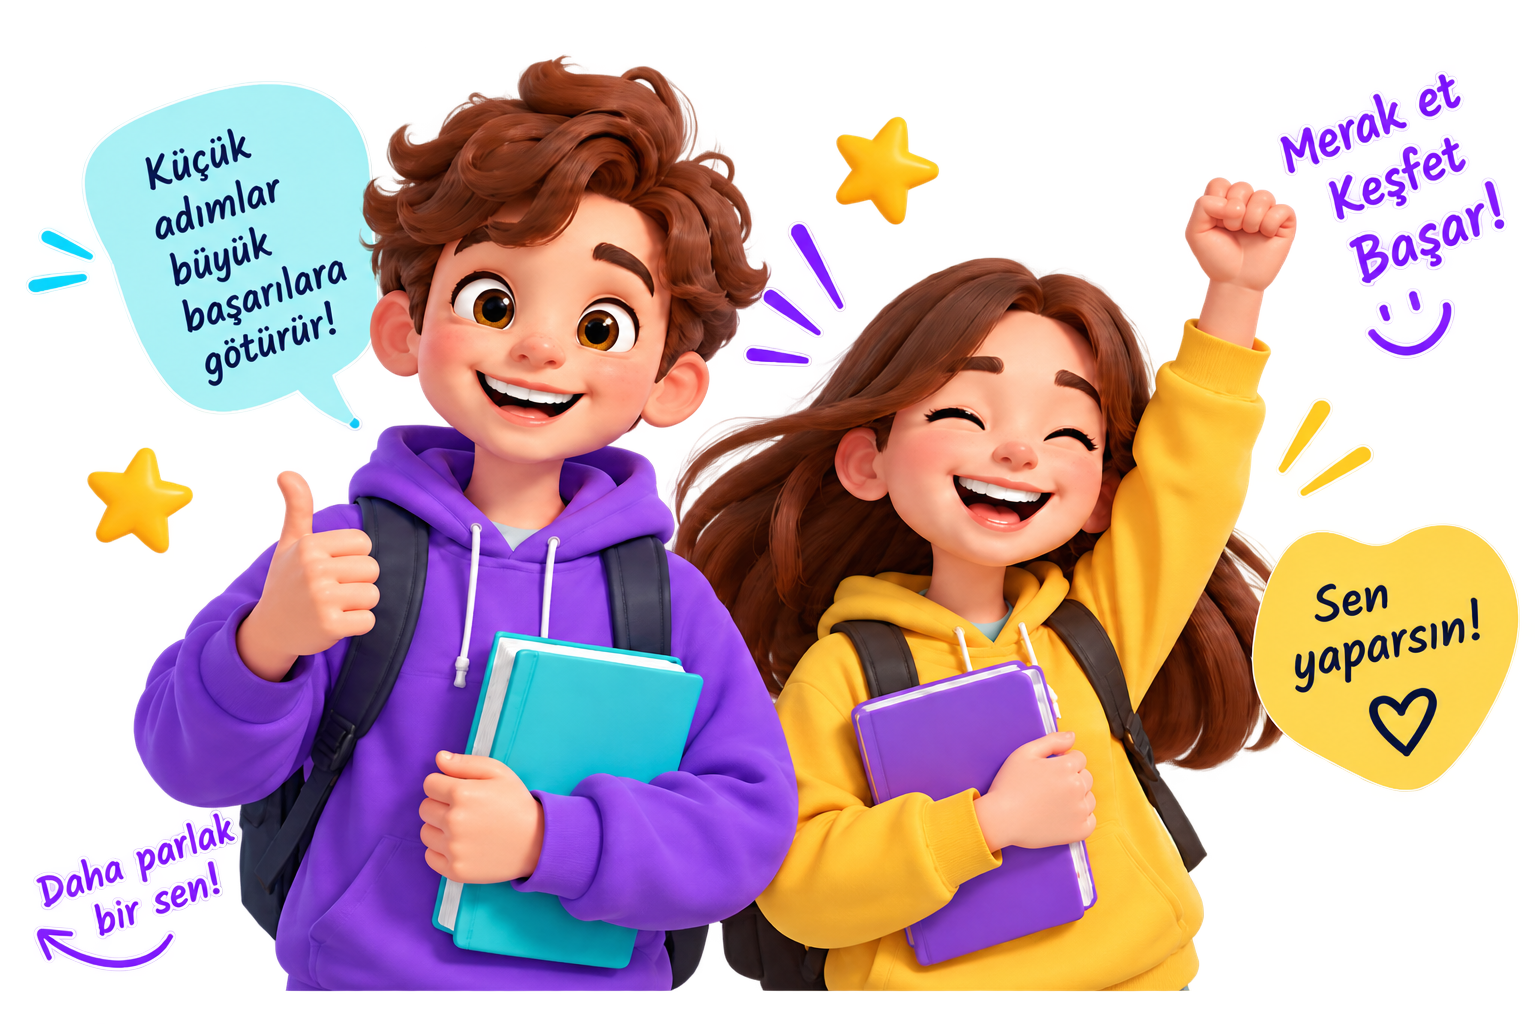
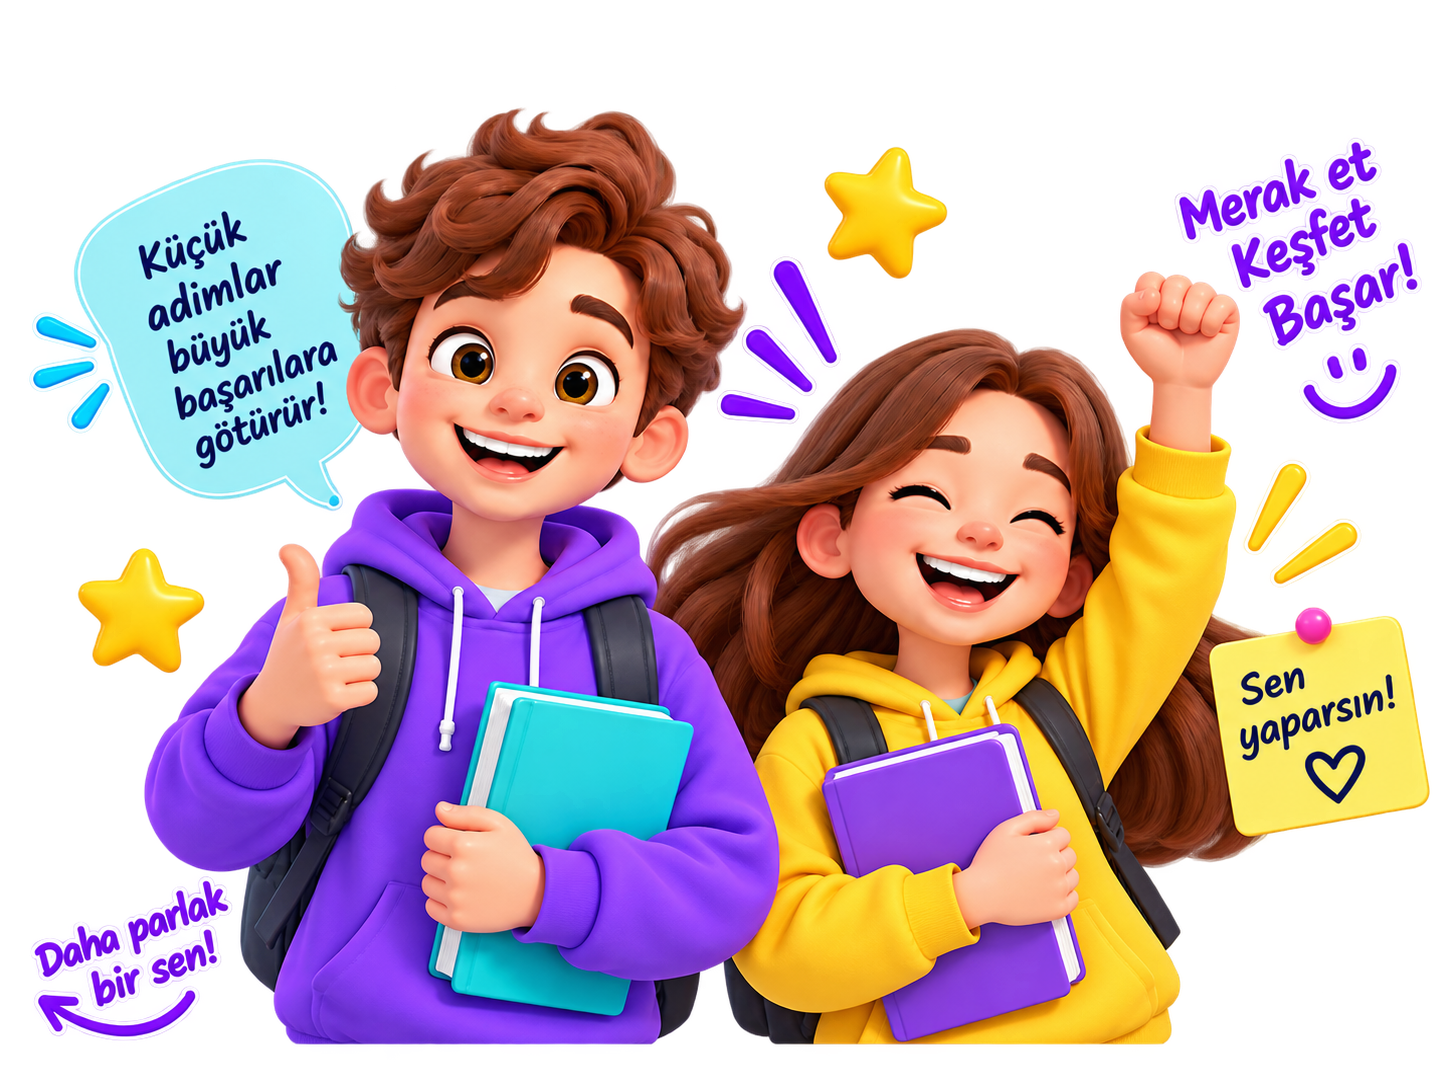
feat: ders detay hero alanını ve görsellerini güncelle

diff --git a/src/features/lessons/detail/components/LessonHero.tsx b/src/features/lessons/detail/components/LessonHero.tsx
@@ -1,0 +1,53 @@
+import { GraduationCap } from "lucide-react";
+
+import { AppButton } from "@/components/ui/AppButton";
+import { AppText } from "@/components/ui/AppText";
+
+import type { Lesson } from "../../types/lesson.types";
+
+type LessonHeroProps = {
+  lesson: Lesson;
+};
+
+export function LessonHero({ lesson }: LessonHeroProps) {
+  return (
+    <section className="relative pt-4 sm:pt-6 lg:pt-8 lg:pb-10 xl:pb-0">
+      <div className="grid items-center gap-10 lg:grid-cols-2 lg:gap-12">
+        <div>
+          <div className="mb-5 inline-flex items-center gap-2 rounded-full bg-secondary/15 px-4 py-2 text-secondary">
+            <GraduationCap size={20} />
+
+            <AppText variant="small" className="font-bold">
+              {lesson.badge}
+            </AppText>
+          </div>
+
+          <AppText variant="h1">
+            {lesson.heroTitle}{" "}
+            <span className="text-primary">{lesson.heroHighlight}</span>
+          </AppText>
+
+          <AppText variant="muted" className="mt-6 max-w-xl">
+            {lesson.description}
+          </AppText>
+
+          <div className="mt-8 flex flex-wrap gap-4">
+            <AppButton size="lg">{lesson.primaryButtonText}</AppButton>
+
+            <AppButton variant="outline" size="lg">
+              {lesson.secondaryButtonText}
+            </AppButton>
+          </div>
+        </div>
+
+        <div className="flex justify-center lg:justify-end">
+          <img
+            src={lesson.image}
+            alt={lesson.imageAlt}
+            className="w-full max-w-2xl object-contain"
+          />
+        </div>
+      </div>
+    </section>
+  );
+}

diff --git a/src/components/ui/AppLink.tsx b/src/components/ui/AppLink.tsx
@@ -16,13 +16,14 @@ type AppLinkProps = {
   children: ReactNode;
   variant?: AppLinkVariant;
   active?: boolean;
+  end?: boolean;
 };
 
 const variantClasses: Record<AppLinkVariant, string> = {
   default:
     "rounded-full text-slate-700 transition-colors hover:text-violet-600",
   brand: "rounded-full text-3xl font-extrabold tracking-tight text-violet-600",
-  nav: "rounded-full relative py-2 text-sm font-medium text-slate-700 transition-colors hover:text-violet-600",
+  nav: "relative rounded-full py-2 text-sm font-medium text-slate-700 transition-colors hover:text-violet-600",
   outlineButton:
     "rounded-full border border-violet-300 px-5 py-2.5 text-sm font-semibold text-violet-600 transition hover:bg-violet-50",
   primaryButton:
@@ -39,11 +40,13 @@ export function AppLink({
   children,
   variant = "default",
   active = false,
+  end = false,
 }: AppLinkProps) {
   if (variant === "nav") {
     return (
       <NavLink
         to={to}
+        end={end}
         className={({ isActive }) =>
           `${variantClasses.nav} ${isActive ? "text-violet-600" : ""}`
         }

diff --git a/src/components/layout/Header.tsx b/src/components/layout/Header.tsx
@@ -4,7 +4,7 @@ import { AppLink } from "@/components/ui/AppLink";
 export function Header() {
   const navItems = [
     { label: "Ana Sayfa", path: "/" },
-    { label: "Dersler", path: "/dersler" },
+    { label: "Dersler", path: "/dersler/bilisim-teknolojileri" },
     { label: "Oyunlar", path: "/oyunlar" },
     { label: "Notlar", path: "/notlar" },
     { label: "Quiz", path: "/quiz" },
@@ -19,7 +19,12 @@ export function Header() {
 
         <nav className="hidden items-center gap-8 md:flex">
           {navItems.map((item) => (
-            <AppLink key={item.path} to={item.path} variant="nav">
+            <AppLink
+              key={item.path}
+              to={item.path}
+              variant="nav"
+              end={item.path === "/"}
+            >
               {item.label}
             </AppLink>
           ))}

diff --git a/src/features/lessons/data/lessons.ts b/src/features/lessons/data/lessons.ts
@@ -1,0 +1,18 @@
+import informationTechnologiesHeroImage from "@/assets/images/lessons/information-technologies/information-technologies-hero.png";
+
+import type { Lesson } from "../types/lesson.types";
+
+export const lessons: Lesson[] = [
+  {
+    slug: "bilisim-teknolojileri",
+    badge: "Bilişim Teknolojileri",
+    heroTitle: "Teknolojiyi Keşfet,",
+    heroHighlight: "Becerilerini Geliştir!",
+    description:
+      "Bilgisayarları, interneti ve dijital dünyayı keşfet; öğrendiklerini etkinlikler ve oyunlarla pekiştir.",
+    primaryButtonText: "Konuları Keşfet",
+    secondaryButtonText: "Oyunlara Göz At",
+    image: informationTechnologiesHeroImage,
+    imageAlt: "Bilişim teknolojileri öğrenme görseli",
+  },
+];

diff --git a/src/app/AppRouter.tsx b/src/app/AppRouter.tsx
@@ -2,6 +2,7 @@ import { BrowserRouter, Navigate, Route, Routes } from "react-router-dom";
 
 import { MainLayout } from "@/components/layout/MainLayout";
 import { HomePage } from "@/features/home/pages/HomePage";
+import { LessonDetailPage } from "@/features/lessons/detail/pages/LessonDetailPage";
 
 export const AppRouter = () => {
   return (
@@ -9,6 +10,7 @@ export const AppRouter = () => {
       <Routes>
         <Route element={<MainLayout />}>
           <Route index element={<HomePage />} />
+          <Route path="/dersler/:lessonSlug" element={<LessonDetailPage />} />
         </Route>
 
         <Route path="*" element={<Navigate to="/" replace />} />

diff --git a/src/features/lessons/detail/pages/LessonDetailPage.tsx b/src/features/lessons/detail/pages/LessonDetailPage.tsx
@@ -1,0 +1,21 @@
+import { useParams } from "react-router-dom";
+
+import { lessons } from "../../data/lessons";
+
+import { LessonHero } from "../components/LessonHero";
+
+export function LessonDetailPage() {
+  const { lessonSlug } = useParams();
+
+  const lesson = lessons.find((item) => item.slug === lessonSlug);
+
+  if (!lesson) {
+    return null;
+  }
+
+  return (
+    <>
+      <LessonHero lesson={lesson} />
+    </>
+  );
+}

diff --git a/src/features/lessons/types/lesson.types.ts b/src/features/lessons/types/lesson.types.ts
@@ -1,0 +1,11 @@
+export type Lesson = {
+  slug: string;
+  badge: string;
+  heroTitle: string;
+  heroHighlight: string;
+  description: string;
+  primaryButtonText: string;
+  secondaryButtonText: string;
+  image: string;
+  imageAlt: string;
+};
